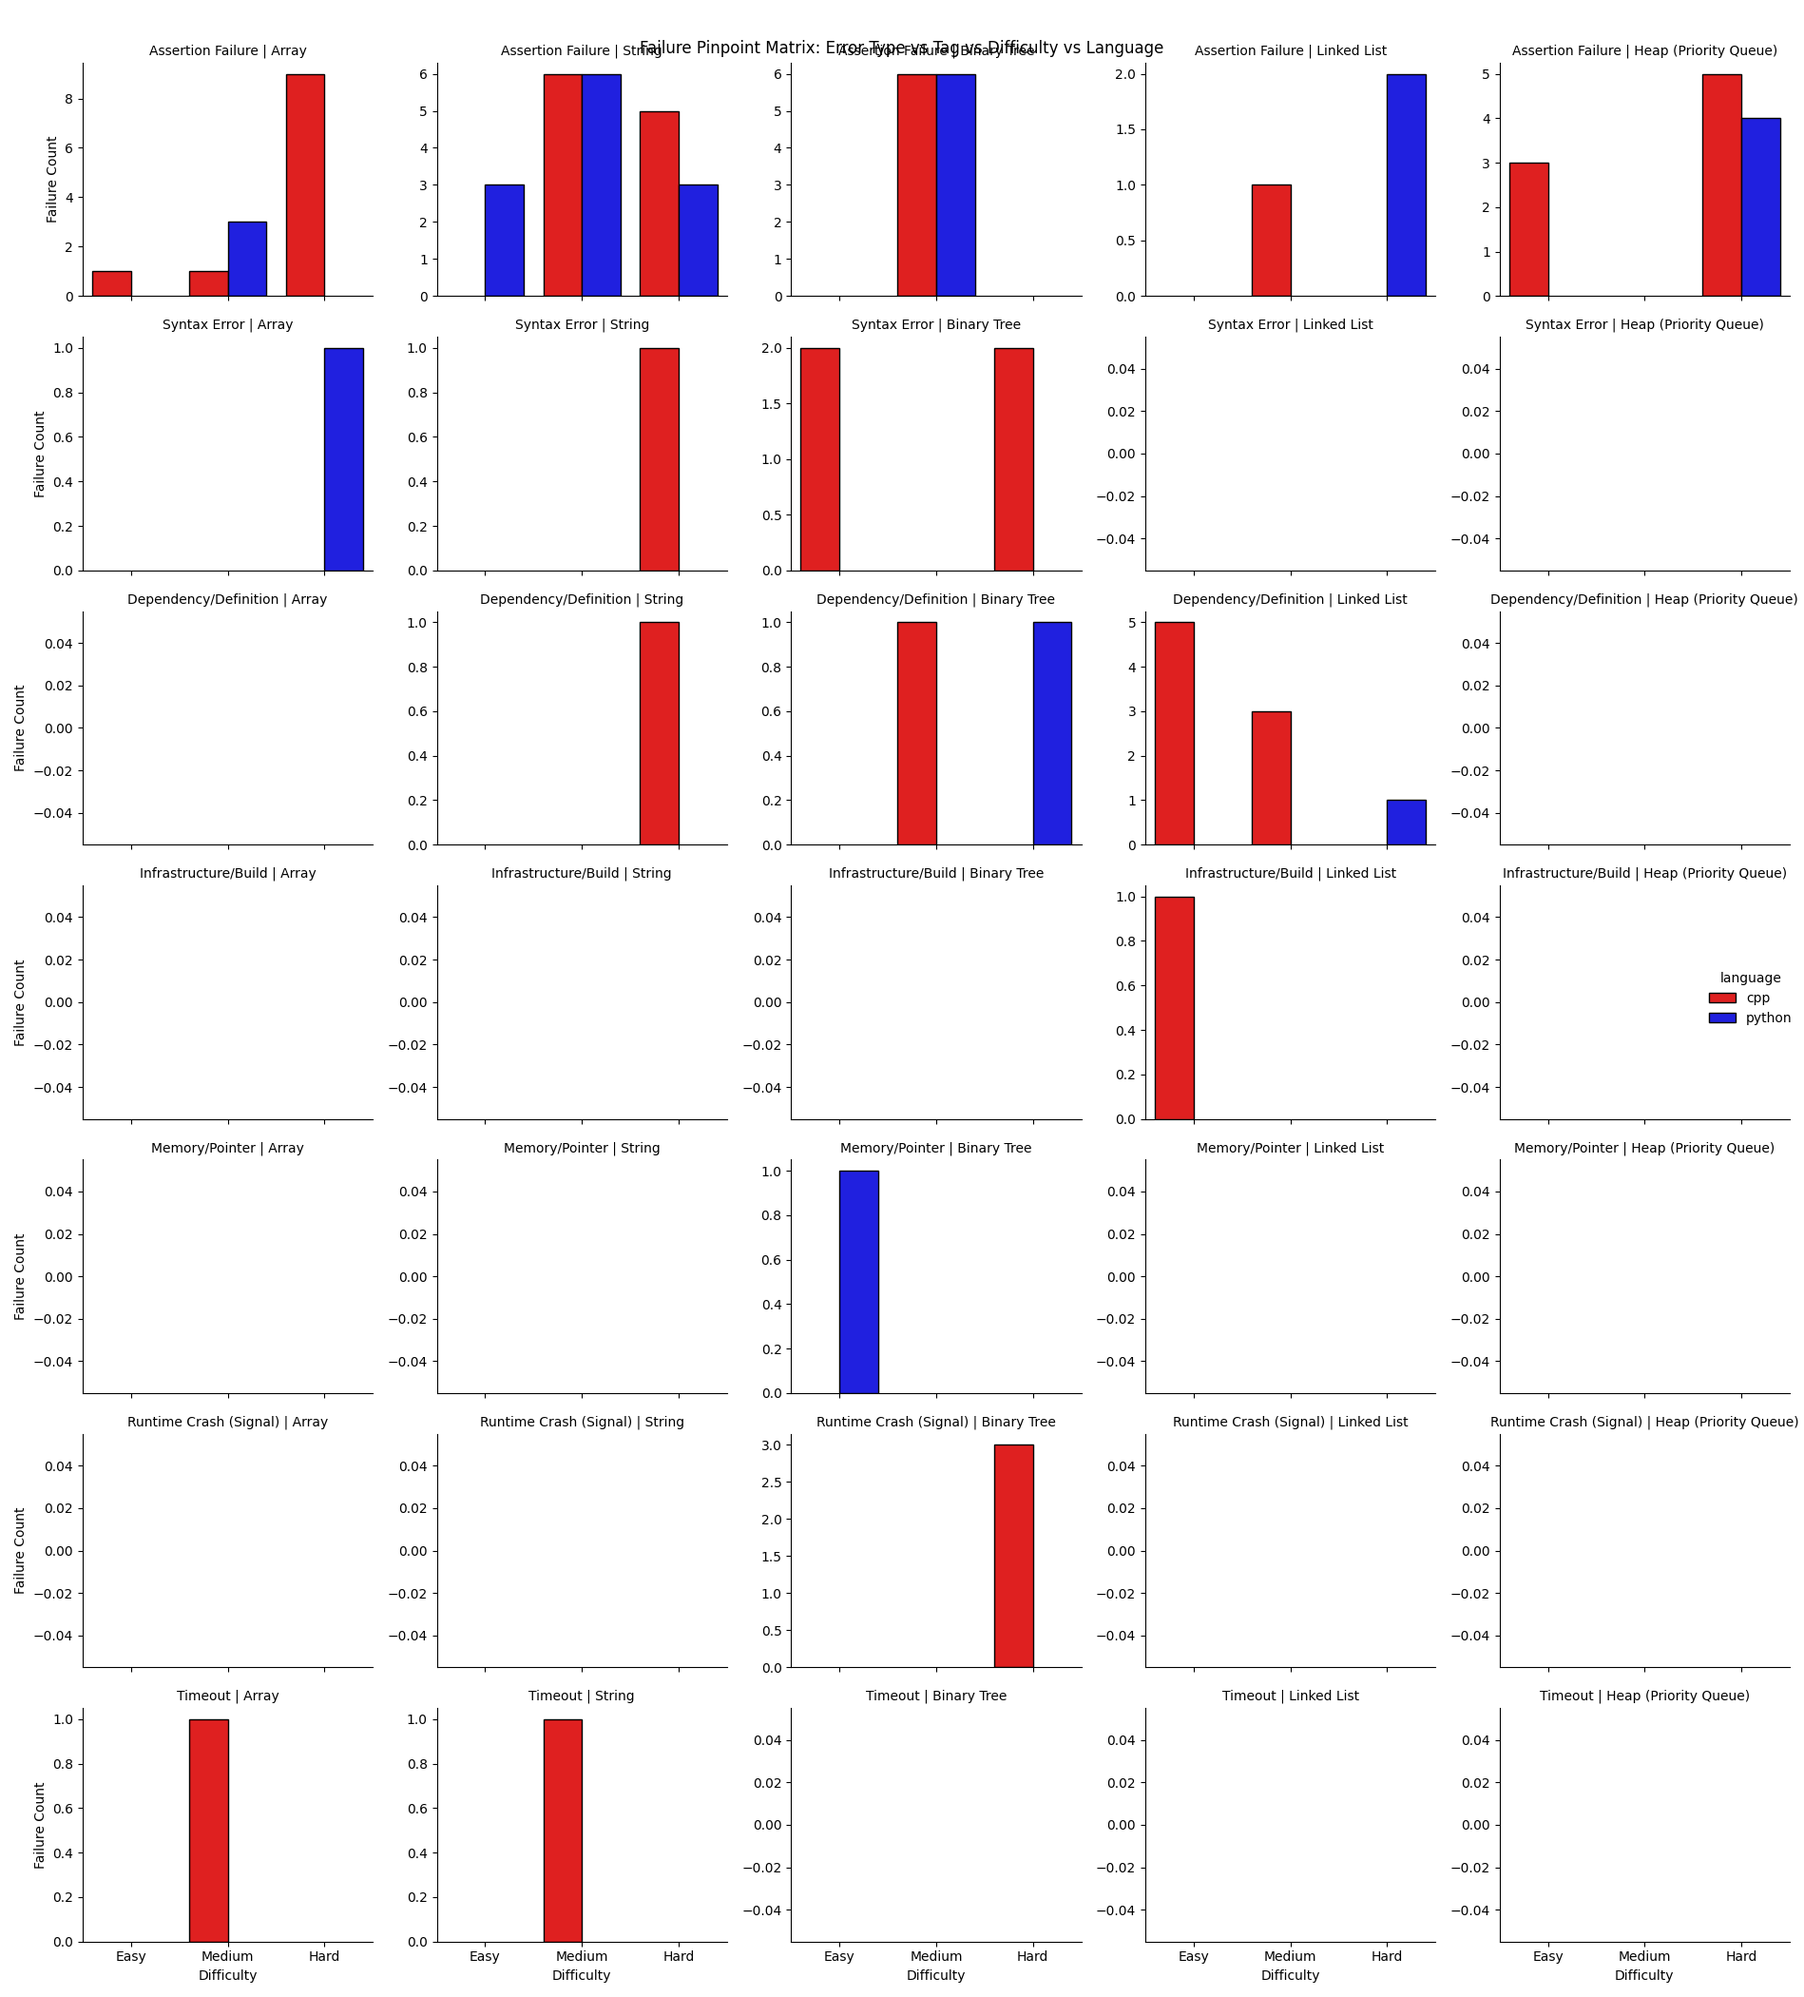
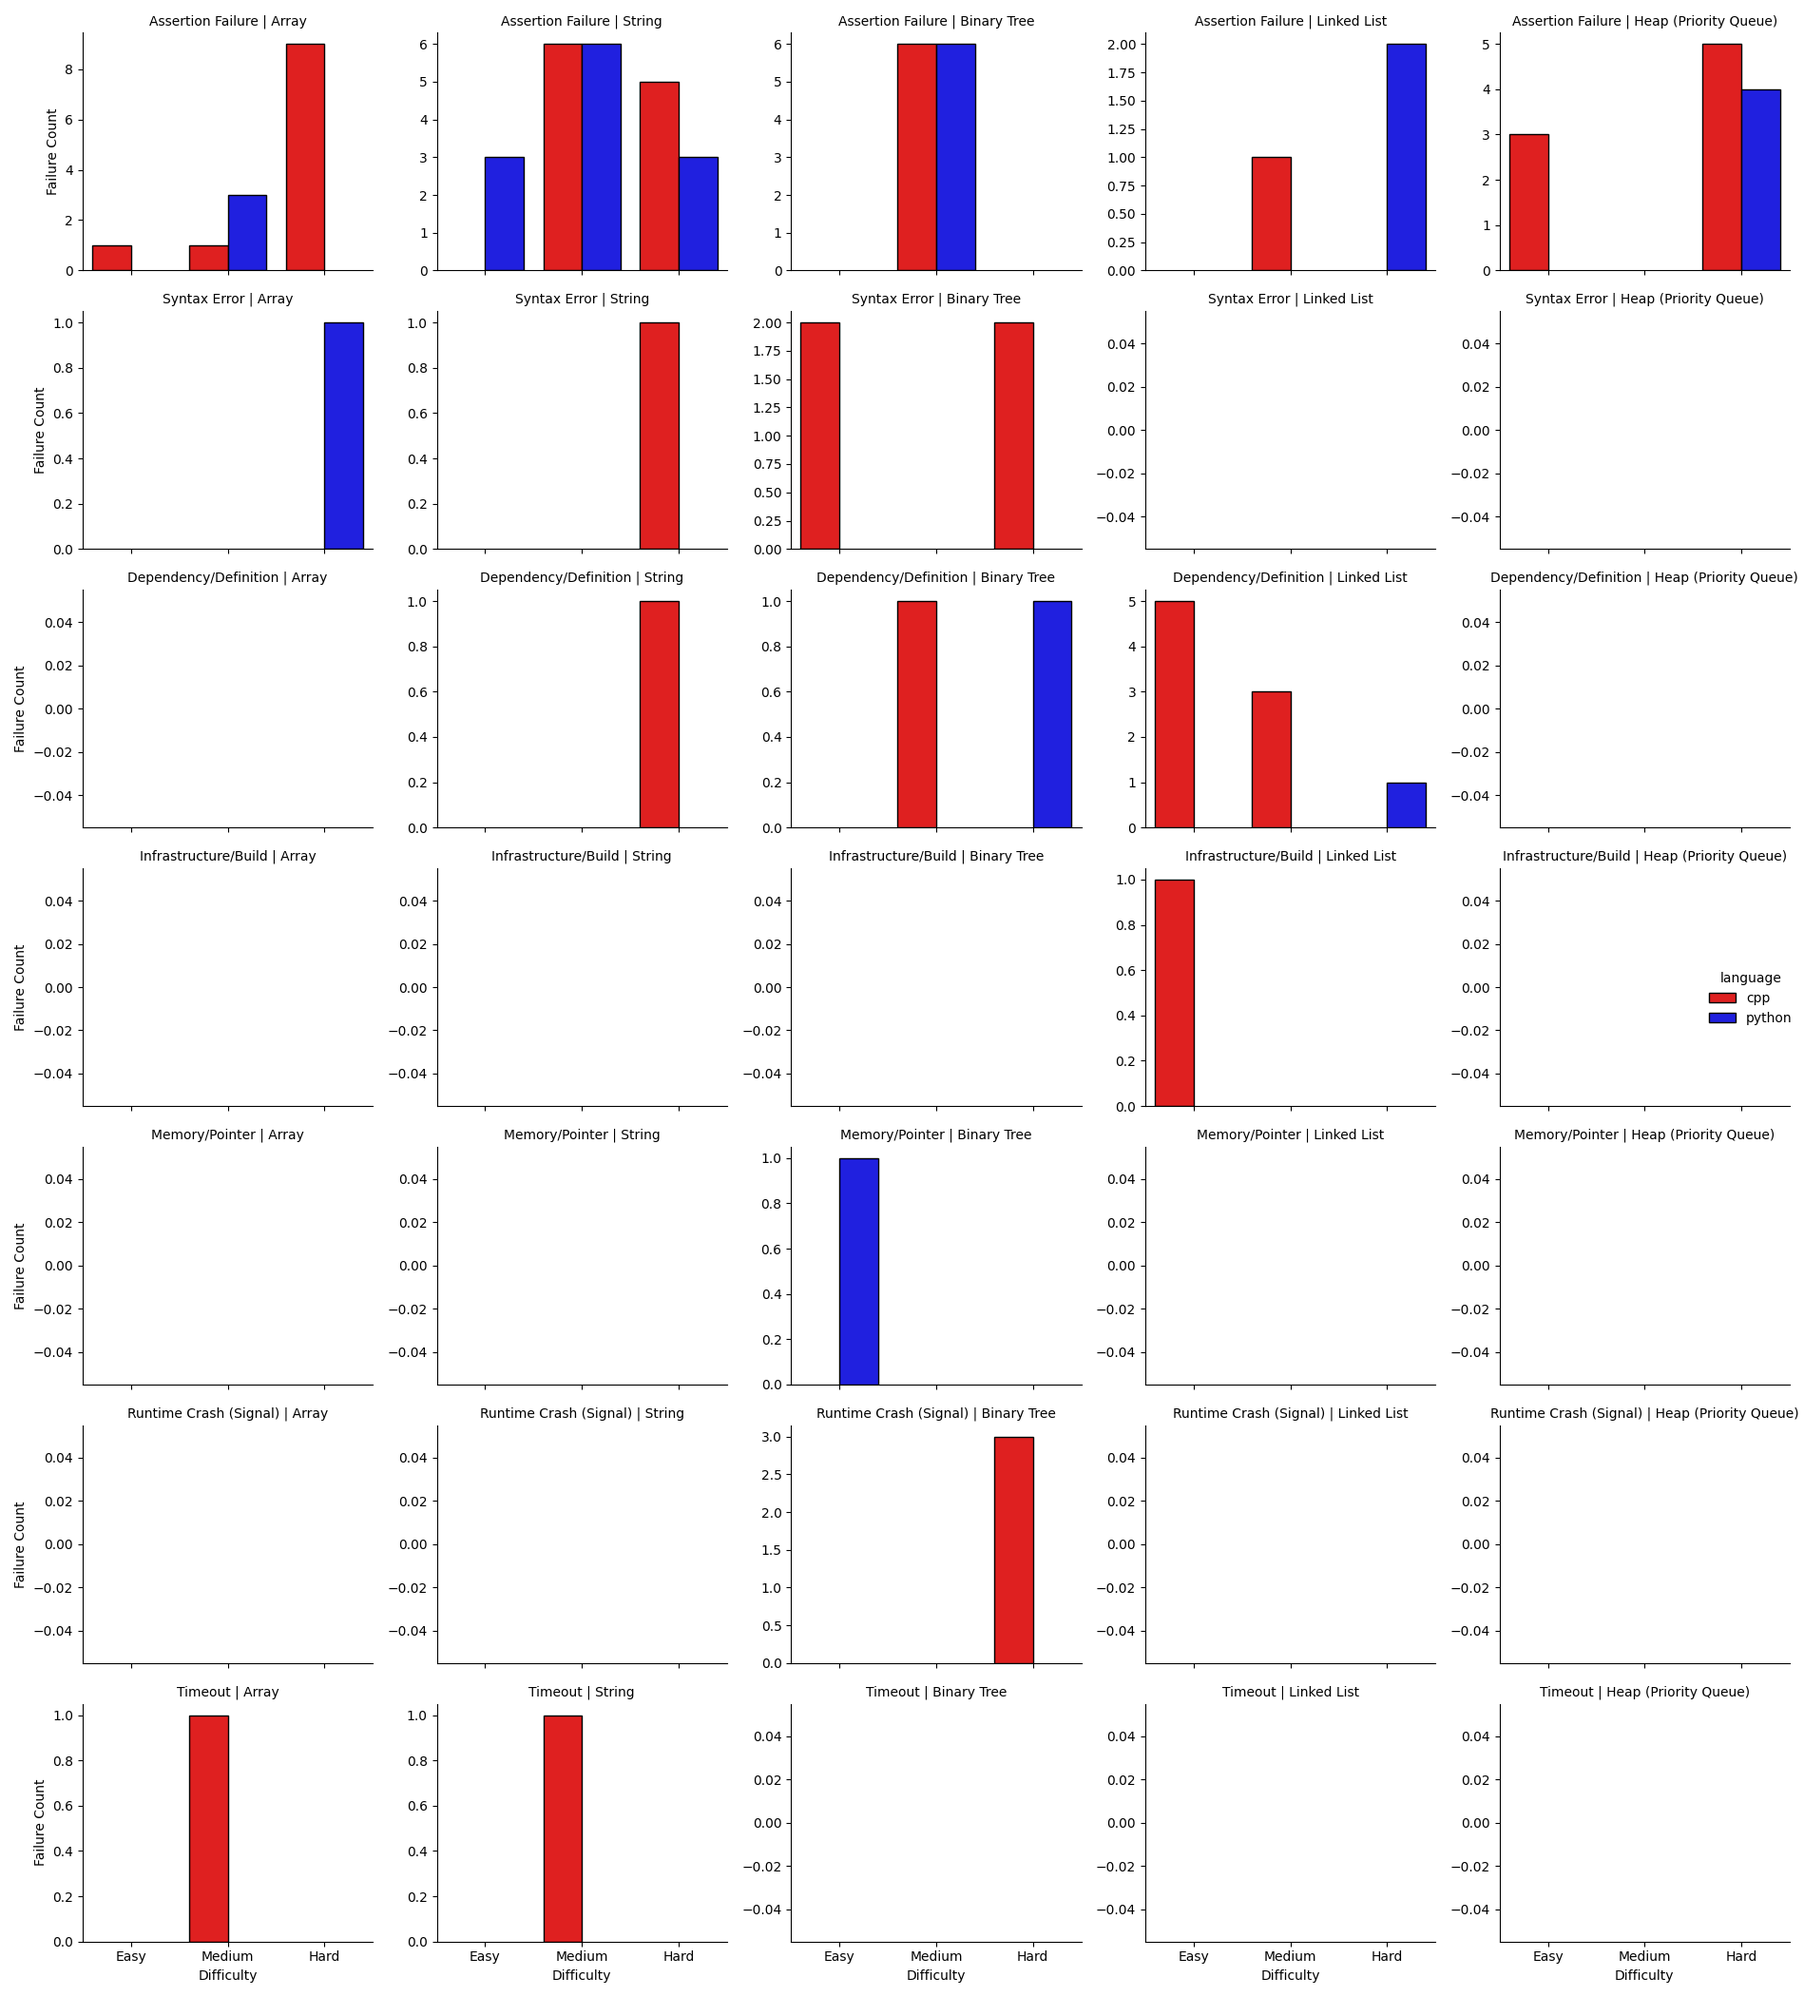
removed the title

diff --git a/generated_code/unittest_run_all.py b/generated_code/unittest_run_all.py
@@ -1003,8 +1003,6 @@ def plot_graph_failure_pinpoint_matrix(attempt_df: pd.DataFrame):
     failures = attempt_df[attempt_df['result'] == 'failed'].copy()
     
     # 2. Create the Faceted Catplot
-    # We use sharey=False because error counts will vary wildly (e.g., Syntax errors 
-    # are usually more common than Memory errors)
     g = sns.catplot(
         data=failures,
         x='difficulty',
@@ -1023,11 +1021,17 @@ def plot_graph_failure_pinpoint_matrix(attempt_df: pd.DataFrame):
     # 3. Formatting
     g.set_titles("{row_name} | {col_name}")
     g.set_axis_labels("Difficulty", "Failure Count")
-    plt.subplots_adjust(top=0.9)
-    g.fig.suptitle('Failure Pinpoint Matrix: Error Type vs Tag vs Difficulty vs Language')
+    
+    # THE FIX: 
+    # Use tight_layout with a 'rect' parameter.
+    # The format is [left, bottom, right, top]. 
+    # This reserves the top 5% (0.95) for the title.
+    g.fig.tight_layout(rect=[0, 0, 1, 0.95])
+    
+    # Now set the title. Since we reserved space, it shouldn't overlap.
+    #g.fig.suptitle('Failure Pinpoint Matrix: Error Type vs Tag vs Difficulty vs Language')
     
     save_current_figure("graph_failure_pinpoint_matrix.png")
-
 
 
 # HEATMAP: Failed attempts vs Lines of Code (LOC)
